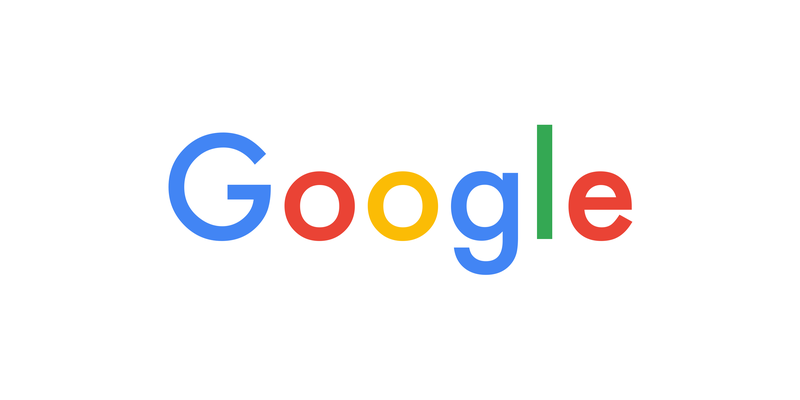
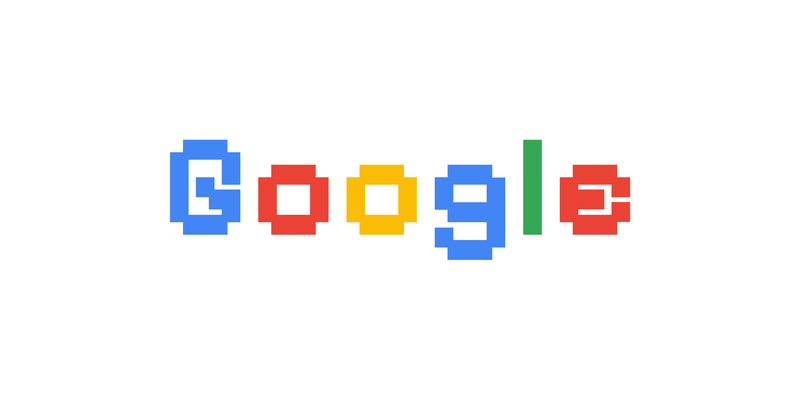
Art: sign art in the game's Pixelify Sans with flat paint wear, for the pixel pass

Changed region(s): [[0.1875, 0.3, 0.8125, 0.69]]

diff --git a/game/art/make_ads.py b/game/art/make_ads.py
@@ -8,7 +8,6 @@ bounding box, and Sign.finish() raises if anything leaves the safe rect.
 Run from game/:  python3 art/make_ads.py
 """
 import math
-import random
 from contextlib import contextmanager
 from functools import lru_cache
 from pathlib import Path
@@ -43,6 +42,12 @@ SCRIPT = font_spec((SUP + "SnellRoundhand.ttc", 2), (SUP + "SnellRoundhand.ttc",
 FUTURA = font_spec((SUP + "Futura.ttc", 0), (SYS + "Helvetica.ttc", 0))
 ROUNDED = font_spec((SYS + "SFNSRounded.ttf", 0, b"Black"), (SUP + "Arial Black.ttf", 0))
 ROUNDED_BOLD = font_spec((SYS + "SFNSRounded.ttf", 0, b"Bold"), (SYS + "Helvetica.ttc", 1))
+
+# Pixel art (docs/superpowers/specs/2026-09-12-blender-houses-design.md): every sign is lettered in the game's own
+# bold Pixelify Sans (game/public/fonts, glyphs fixed for small sizes), so text survives the sprite pixel pass as
+# crisp pixels and matches the UI. The names above stay so call sites read the same.
+PIXEL = font_spec((str(Path(__file__).resolve().parents[1] / "public" / "fonts" / "pixelify-sans-bold.ttf"), 0))
+ARIAL = ARIAL_BOLD = ARIAL_BLACK = HELV_BOLD = GEORGIA = GEORGIA_BOLD = SCRIPT = FUTURA = ROUNDED = ROUNDED_BOLD = PIXEL
 
 
 @lru_cache(maxsize=4096)
@@ -83,13 +88,6 @@ def fit_text(draw, text, font_path, box, max_size=10_000, align="left", valign="
     dx = {"left": 0, "center": (bw - (r - l)) / 2, "right": bw - (r - l)}[align]
     dy = {"top": 0, "center": (bh - (b - t)) / 2, "bottom": bh - (b - t)}[valign]
     return f, (x0 - l + dx, y0 - t + dy)
-
-
-def seeded_noise(size, sigma, seed):
-    """Gaussian grey noise around 128 (like Image.effect_noise), but repeatable for a given seed."""
-    rng = random.Random(seed)
-    w, h = size
-    return Image.frombytes("L", size, bytes(min(255, max(0, round(128 + rng.gauss(0, sigma)))) for _ in range(w * h)))
 
 
 def rgba(color, alpha=255):
@@ -242,19 +240,10 @@ class Sign:
     # -- finishing
 
     def weather(self, lo, hi, seed_size=(40, 28)):
-        """Fade alpha to lo..hi of full strength in soft patches, plus fine paint grain.
-        The noise is seeded from the sign's name, so every run draws the same wear."""
-        size = self.im.size
-        patches = seeded_noise(seed_size, 64, f"{self.name}-patches").resize(size, Image.BICUBIC)
-        patches = patches.filter(ImageFilter.GaussianBlur(6 * SS))
-        mn, mx = patches.getextrema()
-        lut = [round(255 * (lo + (hi - lo) * min(max((v - mn) / max(mx - mn, 1), 0), 1)))
-               for v in range(256)]
-        grain = seeded_noise((self.w // 2, self.h // 2), 40, f"{self.name}-grain").resize(size, Image.BICUBIC)
-        grain = grain.point([round(255 * (0.86 + 0.14 * v / 255)) for v in range(256)])
-        a = self.im.getchannel("A")
-        a = ImageChops.multiply(ImageChops.multiply(a, patches.point(lut)), grain)
-        self.im.putalpha(a)
+        """Fade paint evenly to the middle of lo..hi. Pixel art has no soft wear patches or grain,
+        which the pixel pass would turn into speckles."""
+        mid = (lo + hi) / 2
+        self.im.putalpha(self.im.getchannel("A").point(lambda v: round(v * mid)))
 
     def finish(self):
         sx0, sy0, sx1, sy1 = self.safe
